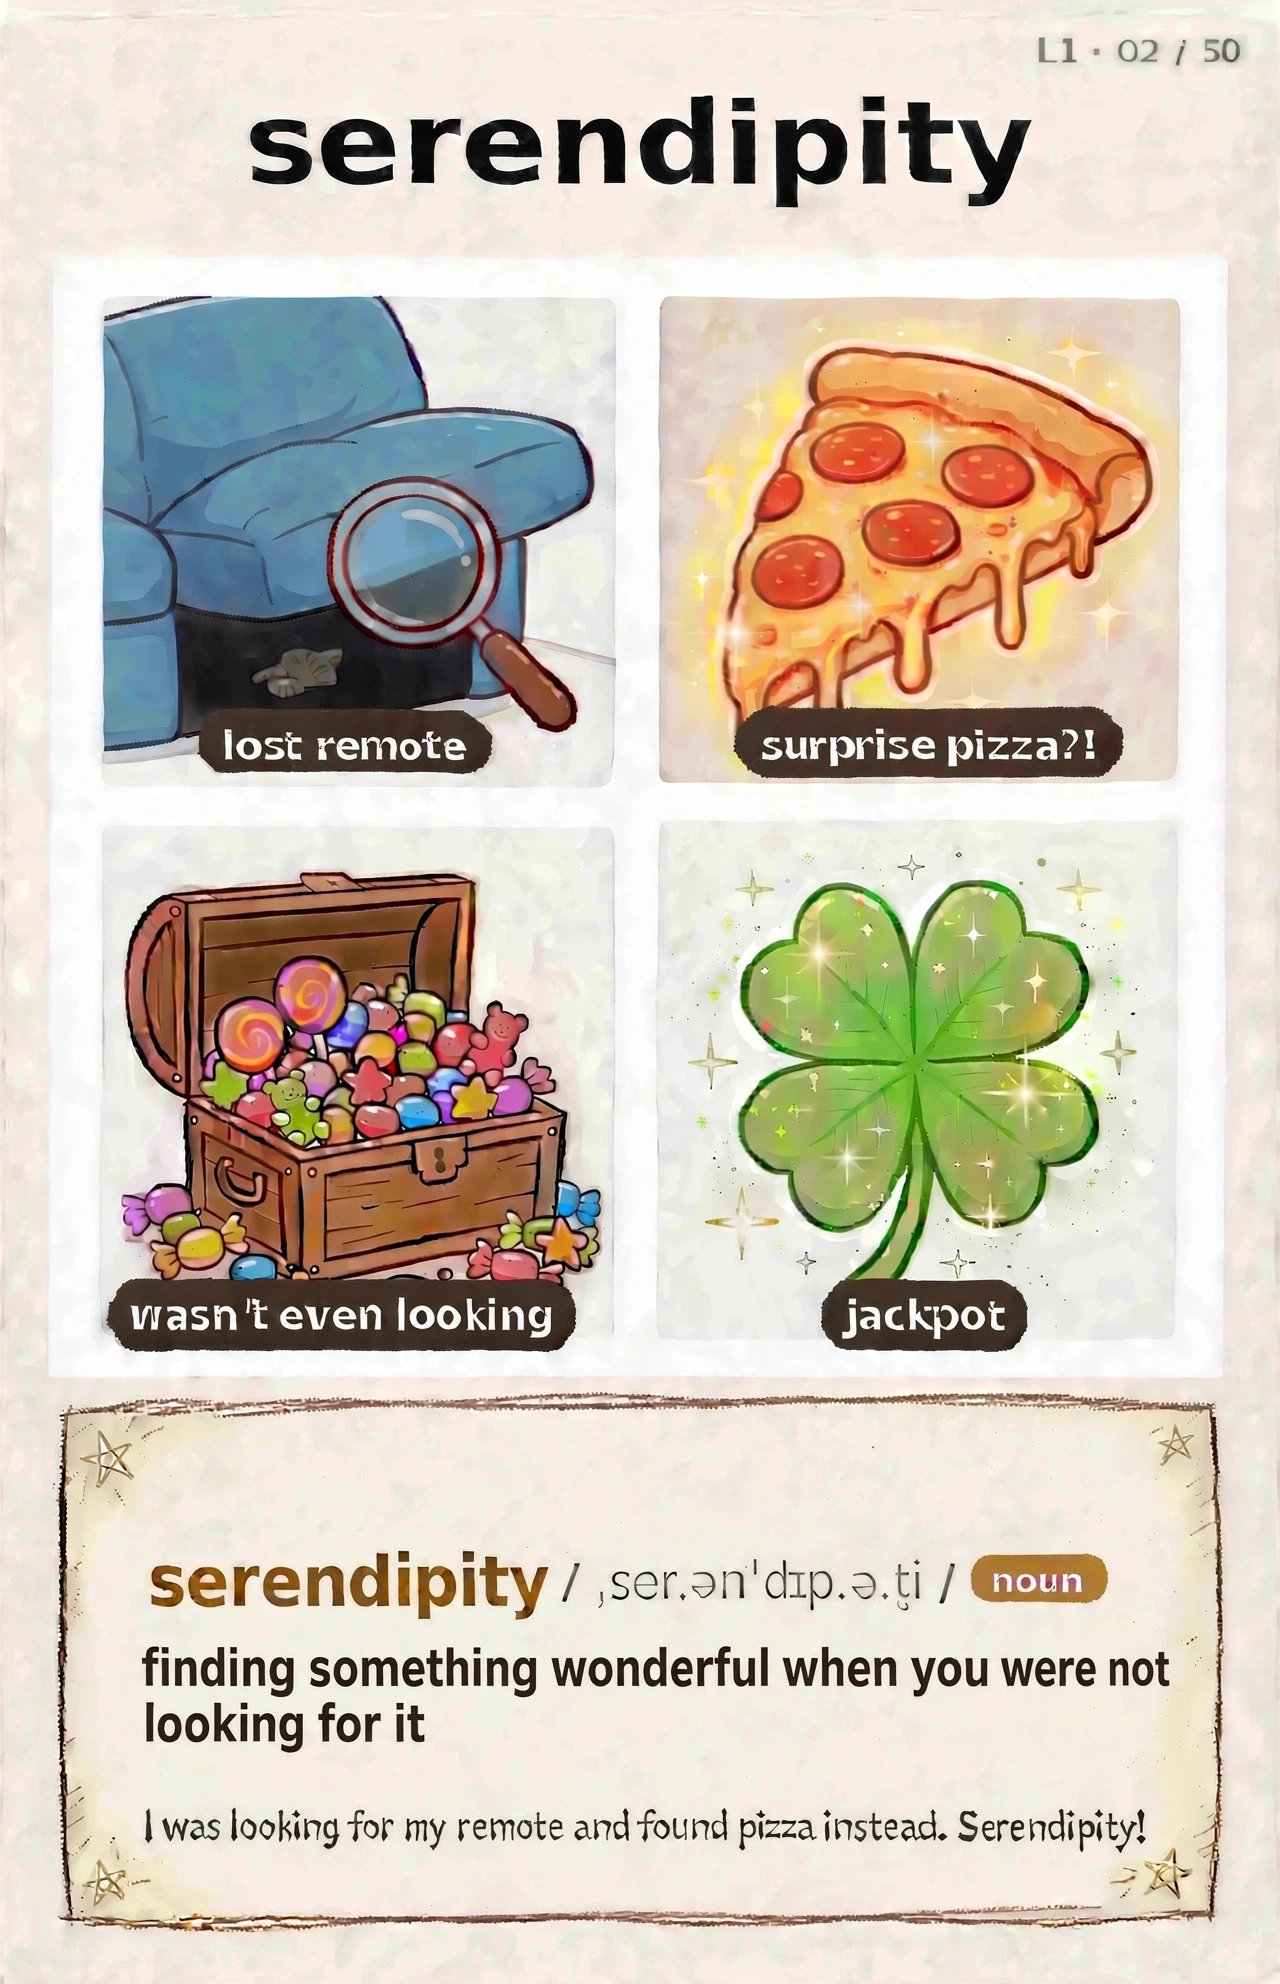
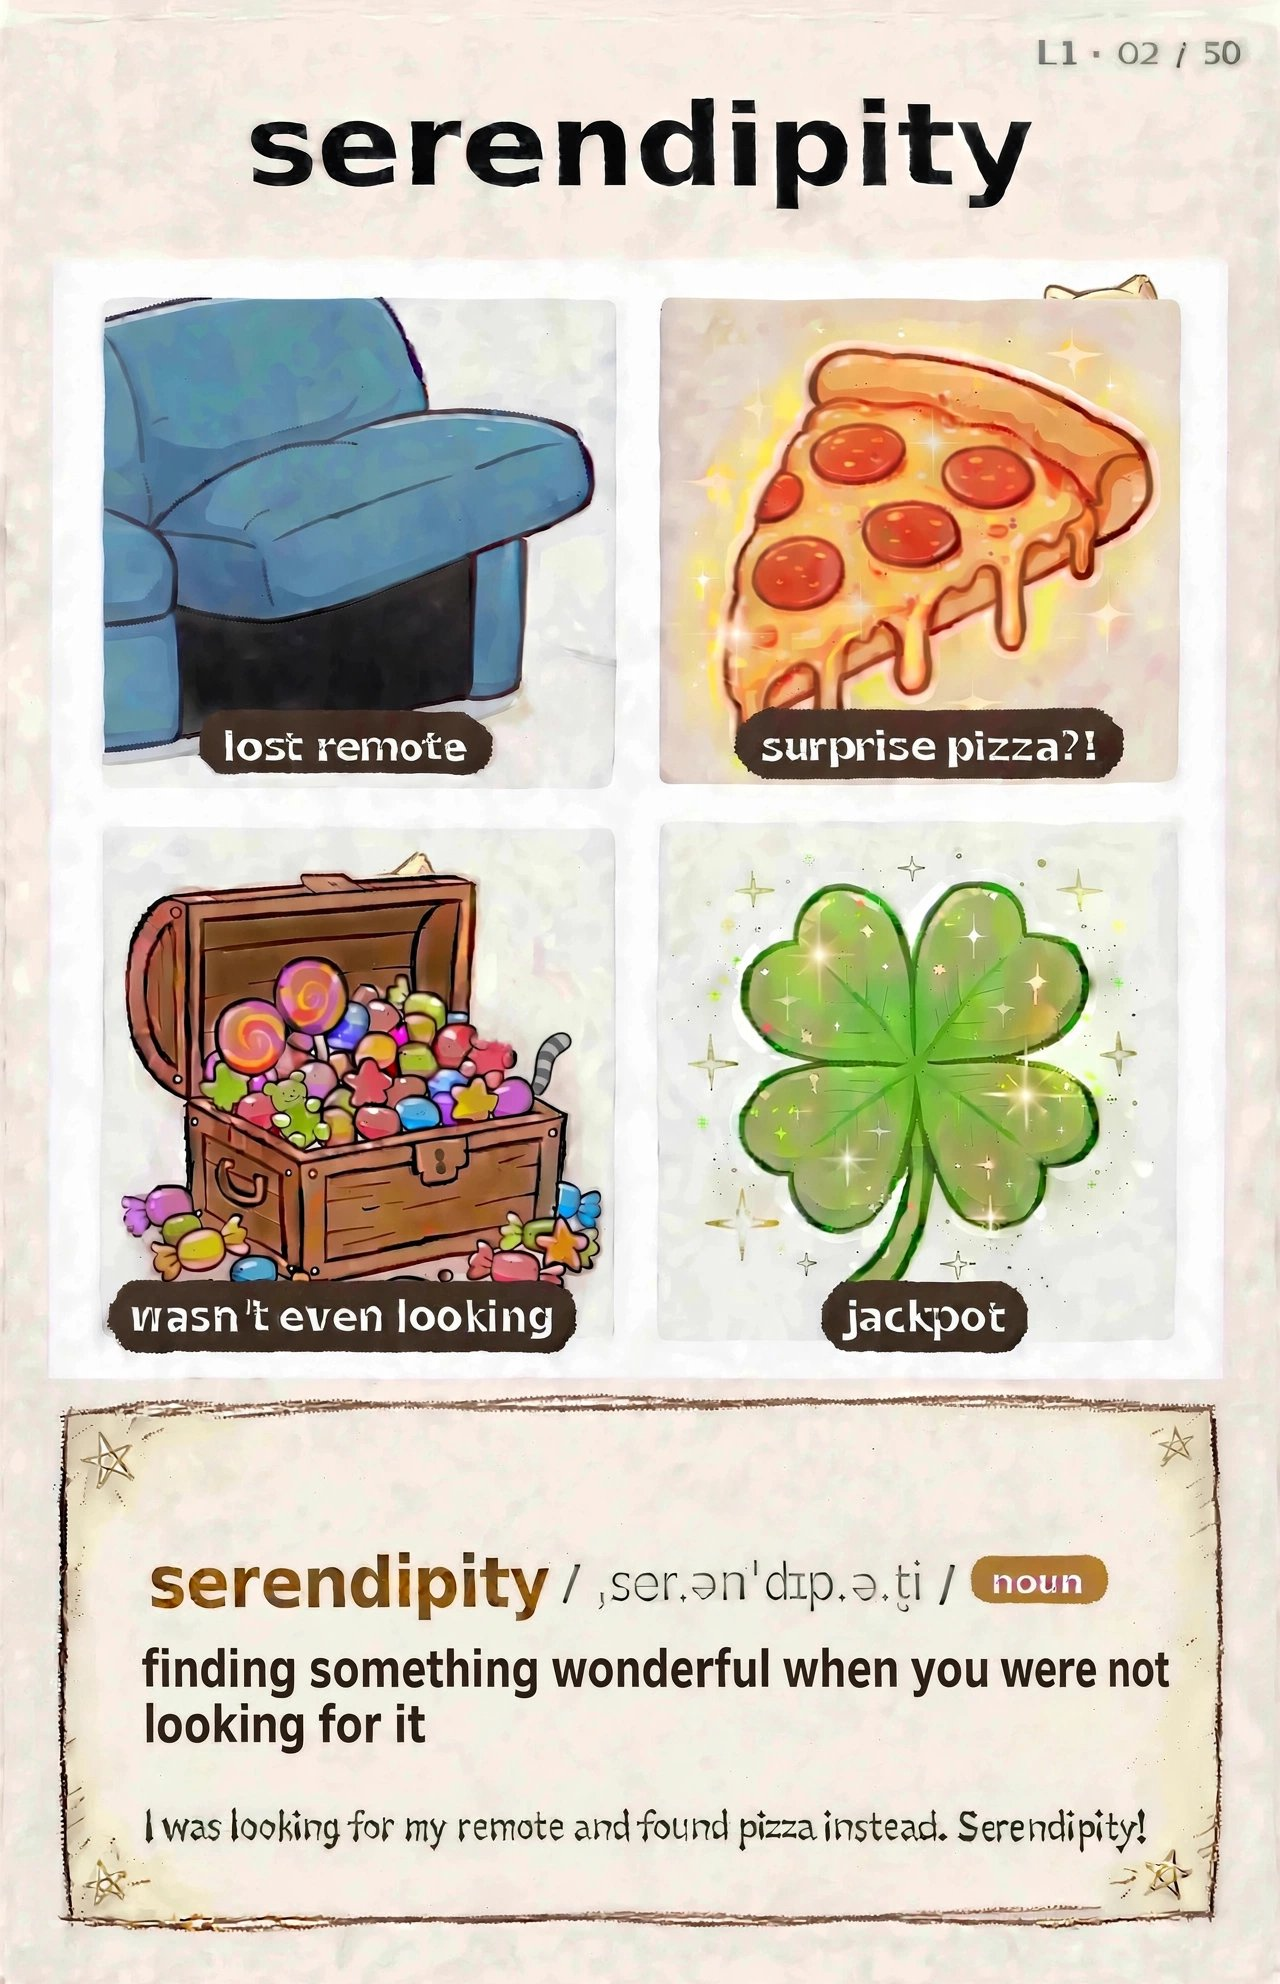
vocab: harder hidden cats (anywhere on card, sometimes two), hint update

diff --git a/vocab/index.html b/vocab/index.html
@@ -74,7 +74,7 @@
       <b>How to play</b><br>
       1⃣ Learn: swipe up / down, or ← → keys on desktop — each word reads itself aloud 🔊<br>
       2⃣ Auto-play: flip the switch and let the words loop by themselves 🔁<br>
-      🐱 Psst — a cat is hiding in every card. Can you find it?
+      🐱 Psst — cats are hiding in every card. Sometimes more than one. Can you find them all?
     </div>
   </div>
 
